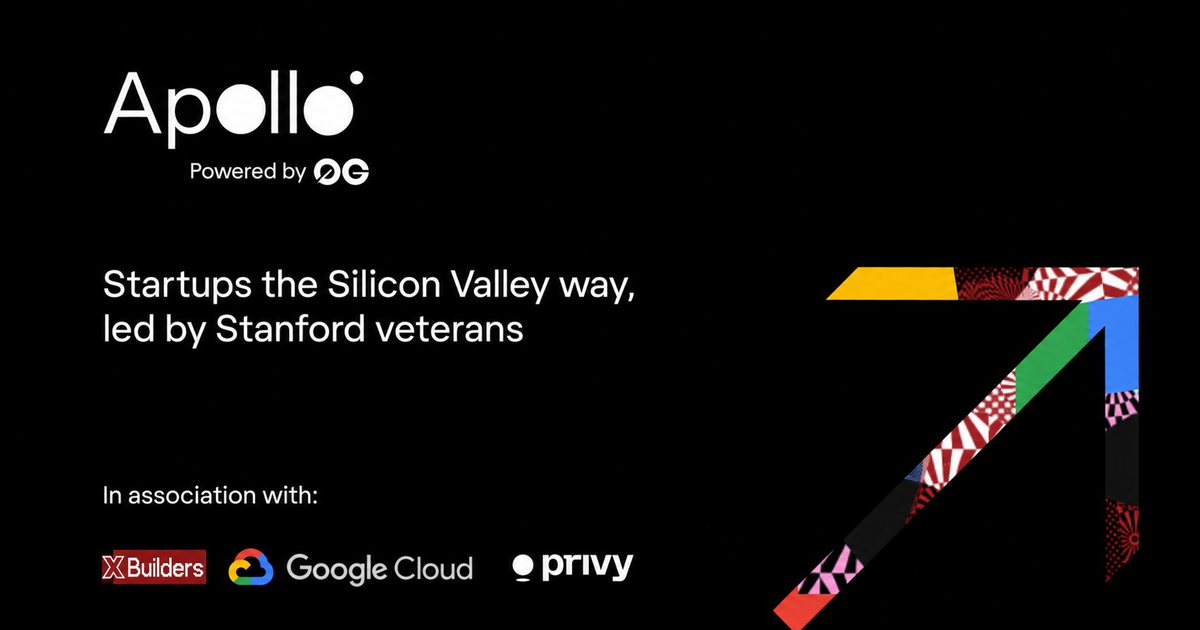
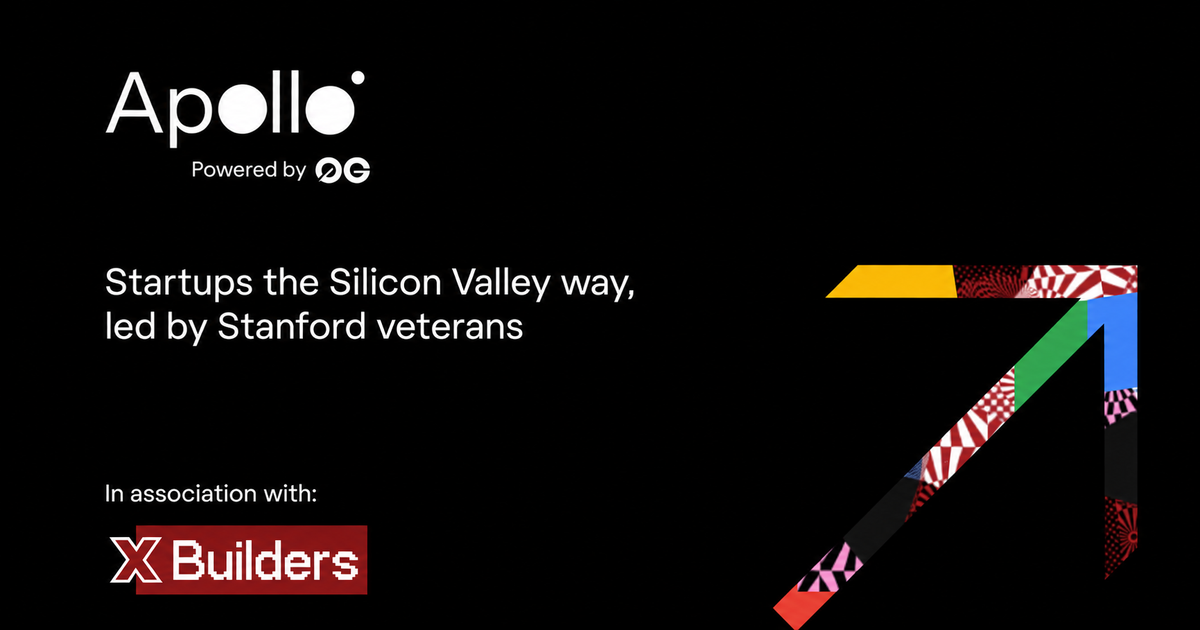
Update Open Graph image: in association with xBuilders only
- Google Cloud and Privy removed from the preview image (not yet announced)
- Bump image URL to ?v=3 so X and LinkedIn re-fetch it

diff --git a/app/layout.tsx b/app/layout.tsx
@@ -26,7 +26,7 @@ export const metadata: Metadata = {
     type: "website",
     images: [
       {
-        url: "/og-image.png?v=2",
+        url: "/og-image.png?v=3",
         width: 1200,
         height: 630,
         alt: "0G Apollo Program - AI Accelerator",
@@ -37,7 +37,7 @@ export const metadata: Metadata = {
     card: "summary_large_image",
     title: "0G Apollo Program - AI Accelerator",
     description: "Four-month accelerator from xBuilders (led by Stanford veterans) and 0G protocol for AI founders building the future of AI infrastructure",
-    images: ["/og-image.png?v=2"],
+    images: ["/og-image.png?v=3"],
   },
   alternates: {
     canonical: "https://apollo.0g.ai",
